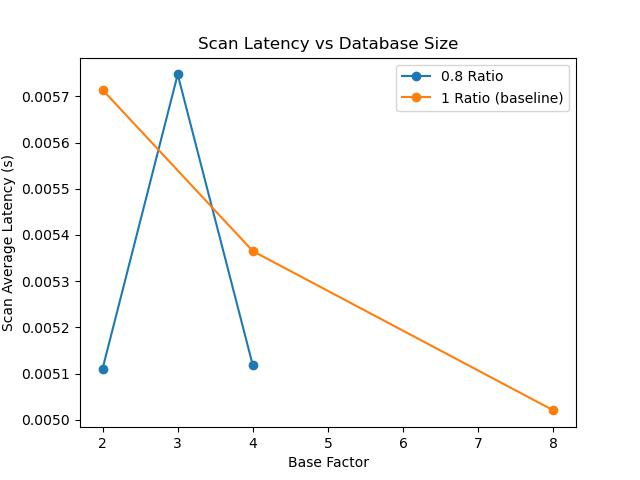
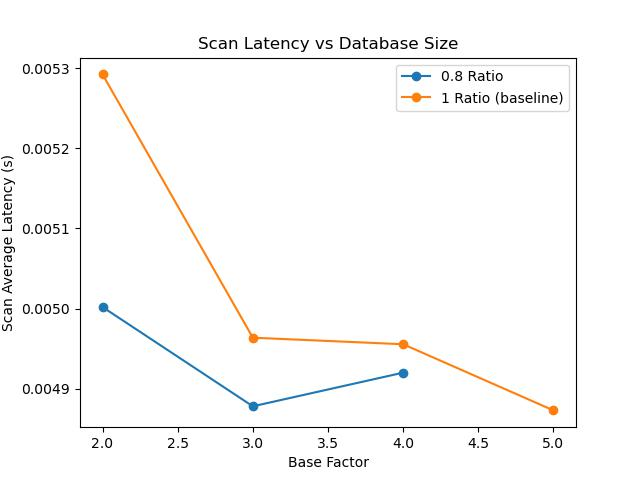
Continuing testing on AWS

diff --git a/fig3.py b/fig3.py
@@ -16,7 +16,7 @@ f = open("../logs/fig_3_" + timestr + ".txt", "w+")
 result_fields = ["Operation", "Base Factor", "Ratio", "Time"]
 results = []
 
-base_factors = [2, 4, 8]
+base_factors = [2, 3, 4, 5]
 test_factors = [2, 3, 4]
 test_ratios = [0.8]
 test_ratio_strs = ["0_8"] # avoid . in file names
@@ -79,14 +79,14 @@ if int(sys.argv[1]) >= 1:
     for base_factor in base_factors:
         print("Forcing filters for leveling with " + str(base_factor) + " base...")
         r = subprocess.run(["./seed", "0", "/tmp/fig3_leveling_" + str(base_factor), "1"], capture_output=True, encoding="utf-8")
-        f.write("-----FILTER " + str(base_factor) + " base and " + ratio_filename_str + " ratio-----\n")
+        f.write("-----FILTER leveling " + str(base_factor) + " base -----\n")
         f.write(r.stderr)
         f.write(r.stdout)
         f.write("-----FILTER FINISHED-----\n")
 
     for test_factor in test_factors:
         for ratio, ratio_filename_str in zip(test_ratios, test_ratio_strs):
-            print("Forcing filters for db with " + str(test_factor) + " base and " + str(test_factor) + "ratio...")
+            print("Forcing filters for db with " + str(test_factor) + " base and " + str(ratio) + "ratio...")
             r = subprocess.run(["./seed", "0", "/tmp/fig3_" + str(test_factor) + "_" + ratio_filename_str, "1"], capture_output=True, encoding="utf-8")
             f.write("-----FILTER " + str(test_factor) + " base and " + ratio_filename_str + " ratio-----\n")
             f.write(r.stderr)
@@ -136,7 +136,7 @@ for test_factor in test_factors:
                         ).strip())  # magic number :(
             results.append(("READ", test_factor, ratio, num))
 
-            f.write("-----READ leveling " + str(base_factor) + " base...-----\n")
+            f.write("-----READ  " + str(base_factor) + " base, " + str(ratio) + " ratio...-----\n")
             f.write(r.stderr)
             f.write(r.stdout)
 
@@ -150,7 +150,7 @@ for base_factor in base_factors:
     base_scan_args = ["./ycsb", "-run", "-db", "leveldb", "-P", "workloads/scan_uniform", "-p", "leveldb.base_scaling_factor=" + str(base_factor), "-s"]
     
     print("Scanning from leveling db with factor " + str(base_factor) + "...")
-    curr_command = base_read_args.copy()
+    curr_command = base_scan_args.copy()
     curr_command += ["-p", "leveldb.dbname=/tmp/fig3_leveling_" + str(base_factor)]
 
     r = subprocess.run(curr_command, capture_output=True, encoding="utf-8")
@@ -171,7 +171,7 @@ for test_factor in test_factors:
         base_read_args = ["./ycsb", "-run", "-db", "leveldb", "-P", "workloads/scan_uniform", "-p", "leveldb.base_scaling_factor=" + str(test_factor), "-s"]
         for ratio, ratio_filename_str in zip(test_ratios, test_ratio_strs):
             print("Scanning from db with " + str(test_factor) + " base and " + str(ratio) + " ratio...")
-            curr_command = base_read_args.copy()
+            curr_command = base_scan_args.copy()
             curr_command += ["-p", "leveldb.ratio_diff=" + str(ratio)]
             curr_command += ["-p", "leveldb.dbname=/tmp/fig3_" + str(test_factor) + "_" + ratio_filename_str]
 
@@ -183,7 +183,7 @@ for test_factor in test_factors:
                         ).strip())  # magic number :(
             results.append(("SCAN", test_factor, ratio, num))
 
-            f.write("-----SCAN leveling " + str(test_factor) + " base...-----\n")
+            f.write("-----SCAN  " + str(base_factor) + " base, " + str(ratio) + " ratio...-----\n")
             f.write(r.stderr)
             f.write(r.stdout)
 

diff --git a/fig1.py b/fig1.py
@@ -23,9 +23,13 @@ db_path = "/tmp/"
 # test ratio to use
 test_ratio = 0.8
 
+# base ratio
+base_ratio = 3
+
 if (sys.argv[1] == "1"):
     # do writes
     base_write_args = ["./ycsb", "-run", "-db", "leveldb", "-P", "workloads/write_uniform", "-s"]
+    base_write_args += ["-p", "leveldb.base_scaling_factor=" + str(base_ratio)]
     for num_mb in mb_to_write:
         print("Seeding db with " + str(num_mb) + " mb base...")
         curr_command = base_write_args.copy()
@@ -92,6 +96,7 @@ if int(sys.argv[1]) >= 1:
 # Perform Point Reads
 base_write_args = ["./ycsb", "-run", "-db",
                    "leveldb", "-P", "workloads/read_uniform", "-s", "-p", 'leveldb.filter_bits=5,5,5,5,5,5,5']
+base_write_args += ["-p", "leveldb.base_scaling_factor=" + str(base_ratio)]
 for num_mb in mb_to_write:
     print("Reading from db with " + str(num_mb) + " mb base...")
     curr_command = base_write_args.copy()
@@ -135,6 +140,7 @@ print(results)
 # Perform Range Reads
 base_write_args = ["./ycsb", "-run", "-db",
                    "leveldb", "-P", "workloads/scan_uniform", "-s"]
+base_write_args += ["-p", "leveldb.base_scaling_factor=" + str(base_ratio)]
 for num_mb in mb_to_write:
     print("Scanning from db with " + str(num_mb) + " mb base...")
     curr_command = base_write_args.copy()

diff --git a/leveldb/leveldb_db.cc b/leveldb/leveldb_db.cc
@@ -193,12 +193,14 @@ void LeveldbDB::GetOptions(const utils::Properties &props, leveldb::Options *opt
 
   int base_scaling_factor = std::stoi(props.GetProperty(PROP_BASE_SCALING_FACTOR, PROP_BASE_SCALING_FACTOR_DEFAULT));
   if (base_scaling_factor > 1) {
+    std::cout << "Placing base scaling factor" << std::endl;
     opt->base_scaling_factor = base_scaling_factor;
   }
 
   double ratio_diff = std::stod(props.GetProperty(PROP_RATIO_DIFF, PROP_RATIO_DIFF_DEFAULT));
   if (ratio_diff < 1 && ratio_diff > 0)
   {
+    std::cout << "Placing ratio diff" << std::endl;
     opt->ratio_diff = ratio_diff;
   }
 }

diff --git a/generate_figs.py b/generate_figs.py
@@ -40,6 +40,7 @@ if "fig_3" in sys.argv[1]:
     plt.ylabel("Scan Cost (s)")
     
     plt.savefig(result_path + "scan_vs_write.jpg")
+    sys.exit()
 
 # Fig 1 and 2
 
